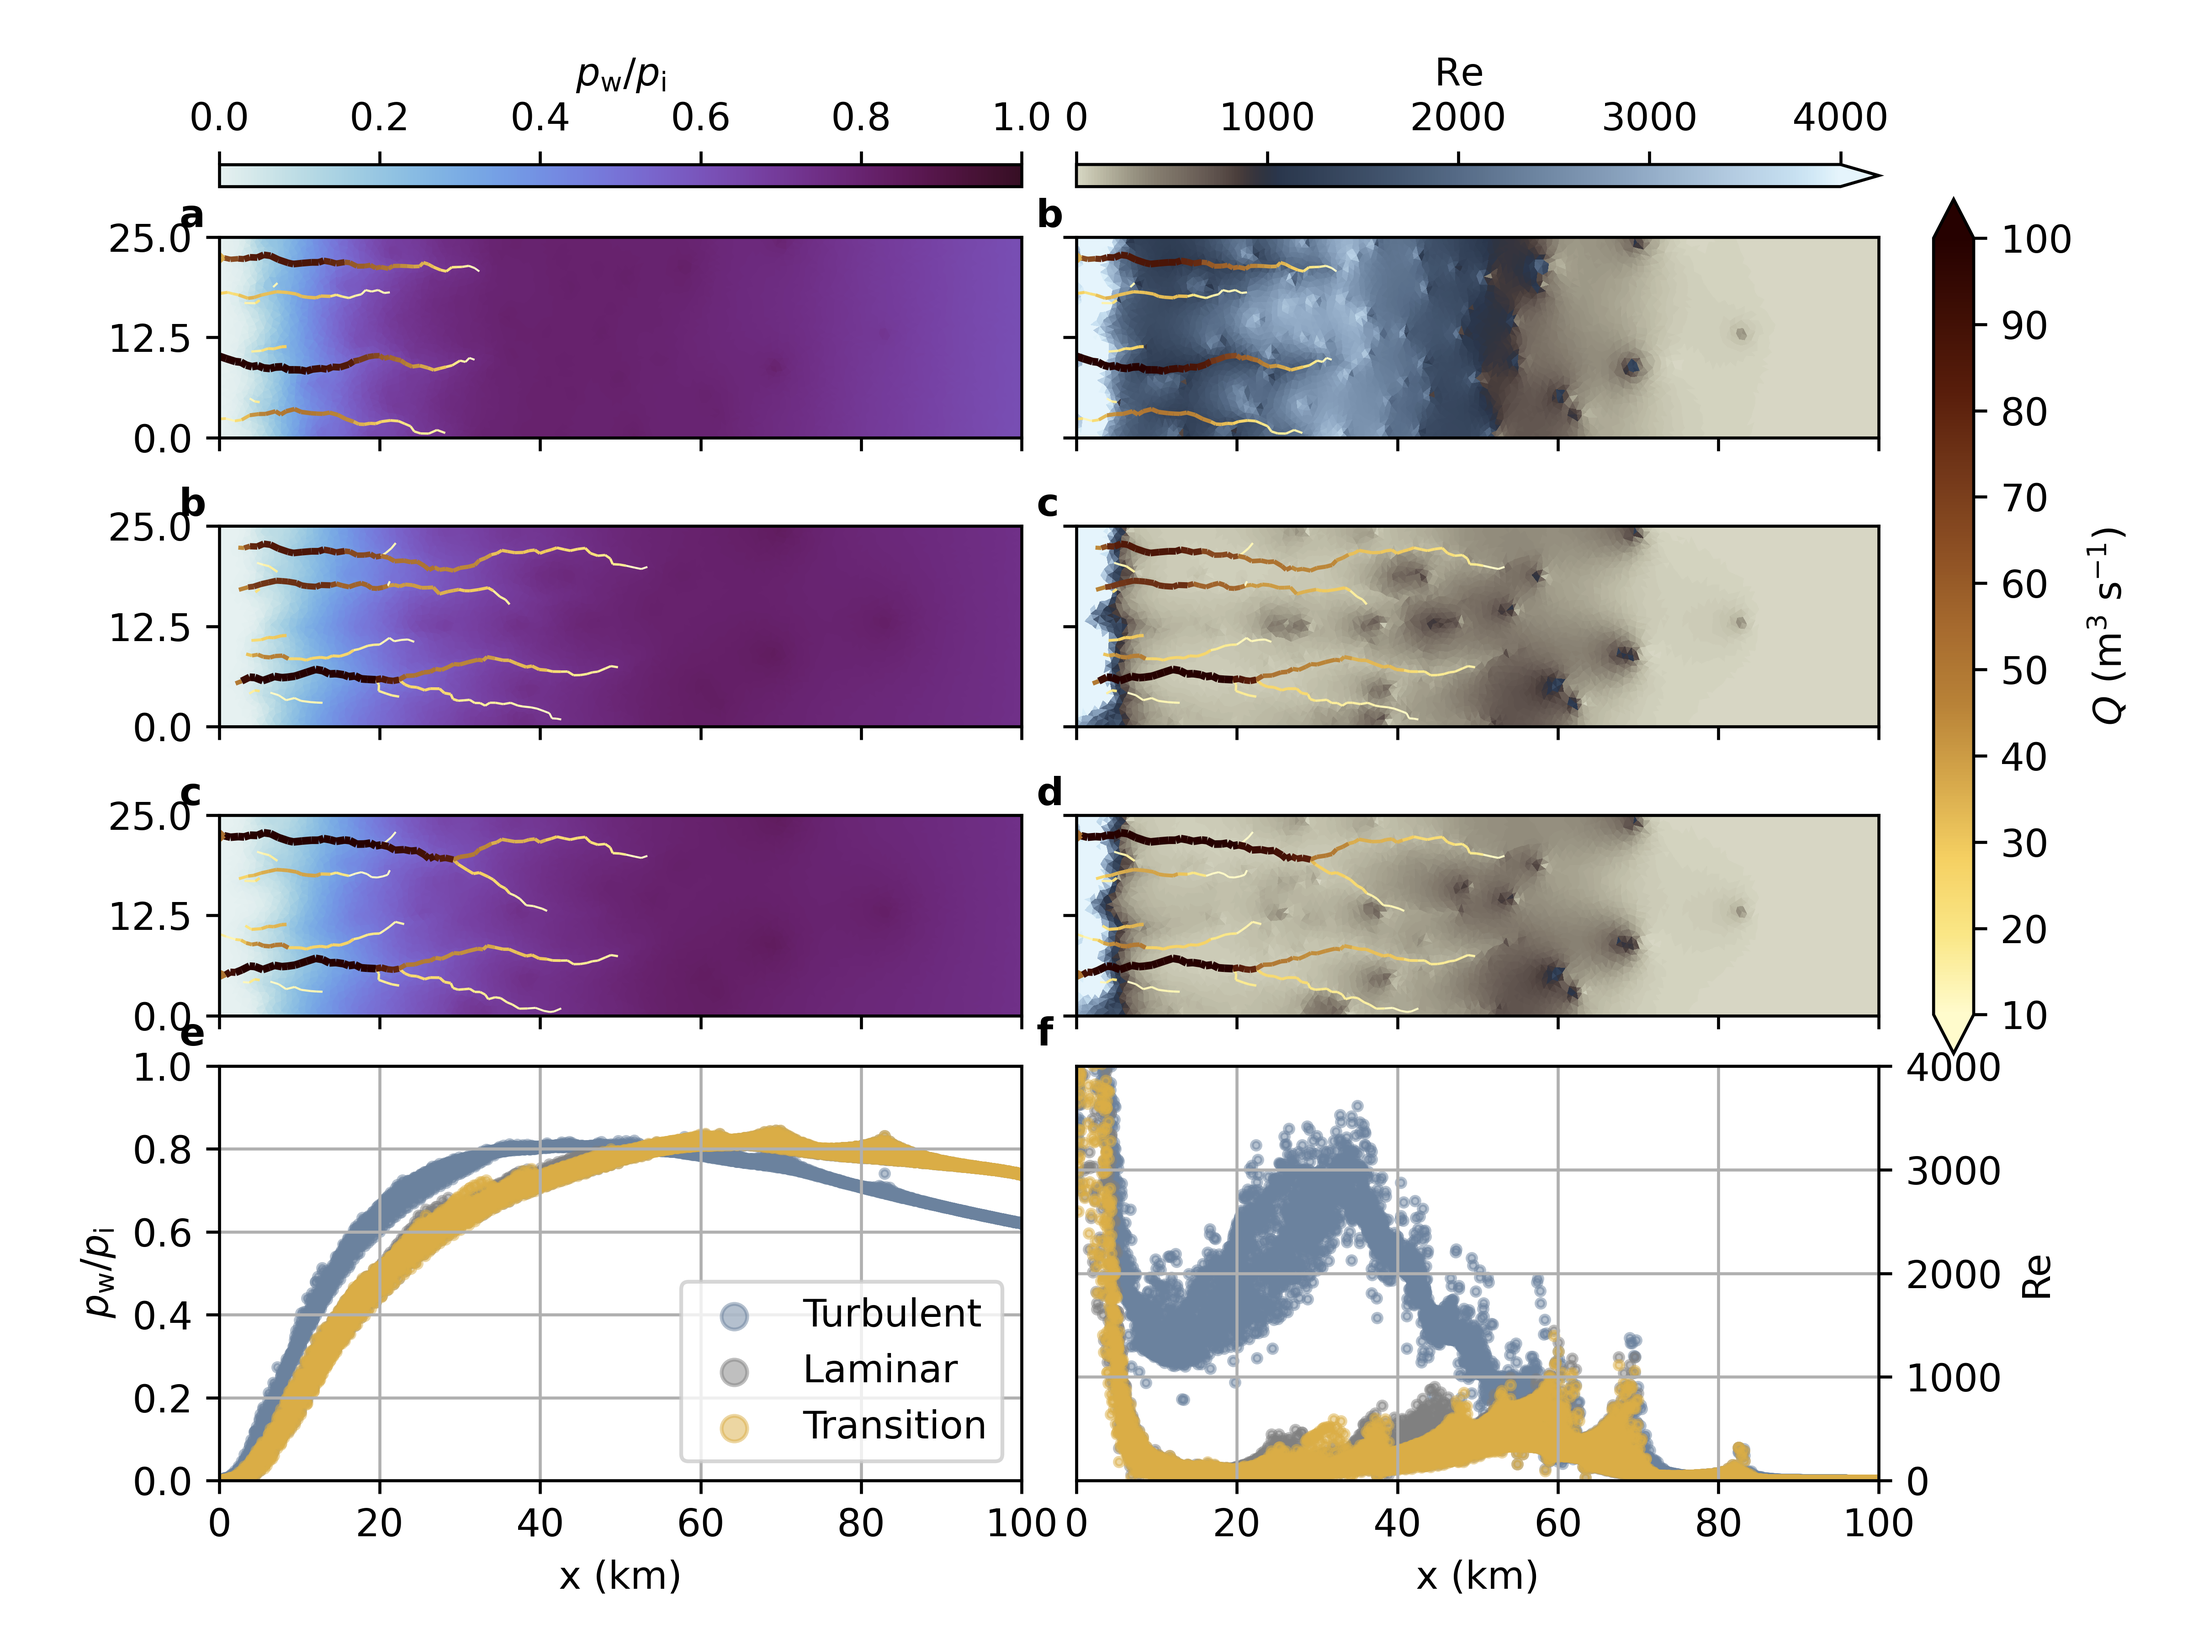
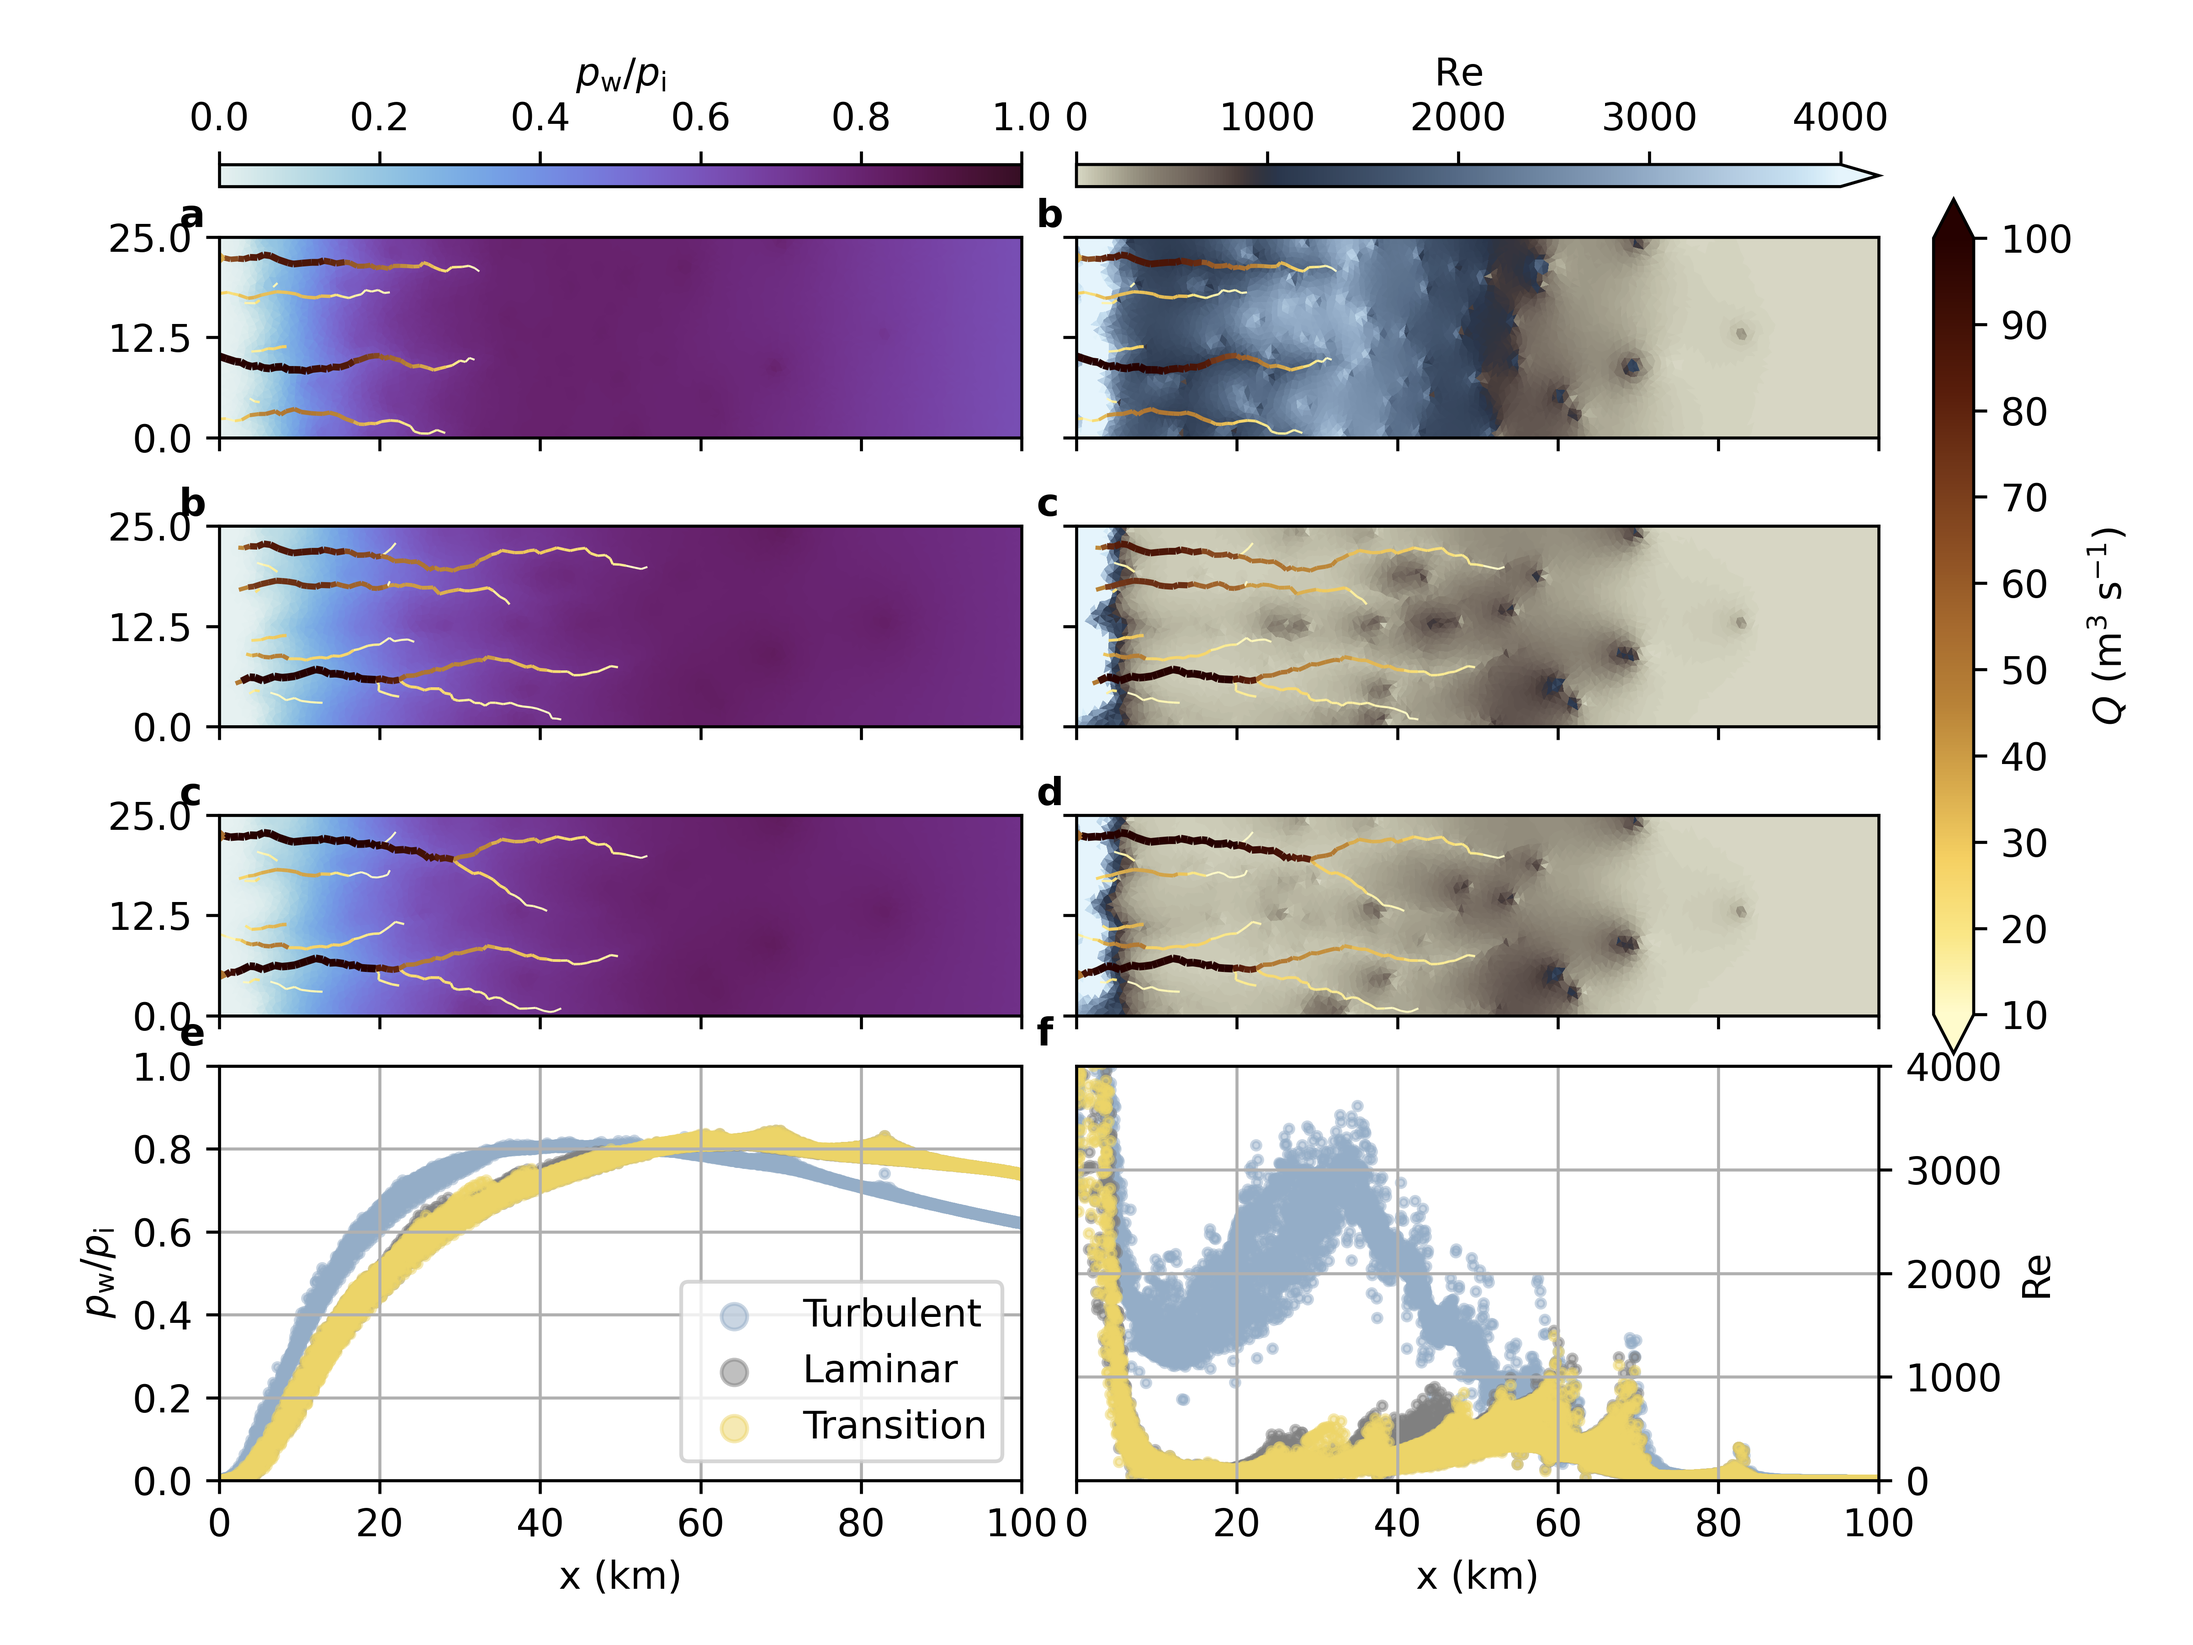
Fig colours

Changed region(s): [[0.0938, 0.6533, 0.8438, 0.9022]]

diff --git a/glads/00_shmip_forcing_shmip_topo/analysis/plot_steady.py b/glads/00_shmip_forcing_shmip_topo/analysis/plot_steady.py
@@ -38,12 +38,12 @@ alphabet = ['a', 'b', 'c', 'd', 'e', 'f', 'g', 'h', 'i', 'j']
 axs_scatter = np.array([fig.add_subplot(gs[n_cases+1, j]) for j in range(2)])
 labels = ['Turbulent', 'Laminar', 'Transition', 'Turbulent (3/2)', 'Transition (3/2)']
 
-colors = np.array([[0.420, 0.510, 0.620, 1],
-#                   [0.579, 0.677, 0.781, 1],
+colors = np.array([#[0.420, 0.510, 0.620, 1],
+                   [0.579, 0.677, 0.781, 1],
                    [0.500, 0.500, 0.500, 1],
-                   [0.859, 0.683, 0.275, 1],
-                    ])
-#                   [0.929, 0.835, 0.408, 1]])
+#                   [0.859, 0.683, 0.275, 1],
+#                    ])
+                   [0.929, 0.835, 0.408, 1]])
 
 cm1 = palettes.get_cmap('BrownGray')
 cm2 = palettes.get_cmap('blue-8').reversed()
